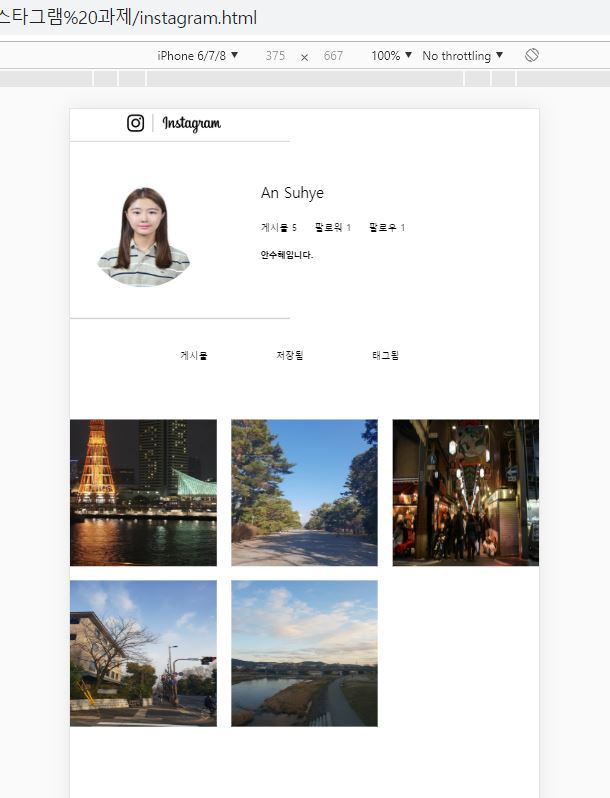
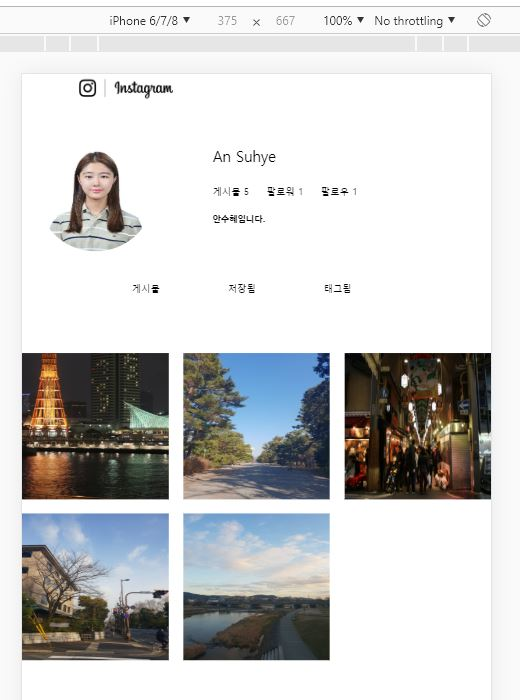
react hw

diff --git a/instagram.css b/instagram.css
@@ -239,7 +239,9 @@
     .navbar,
     .bottom,
     .small-box,
-    .fas{display: none;}
+    .fas,
+    .line,
+    .line2{display: none;}
 
     .middle,
     .text3{margin-left: 50%;}
